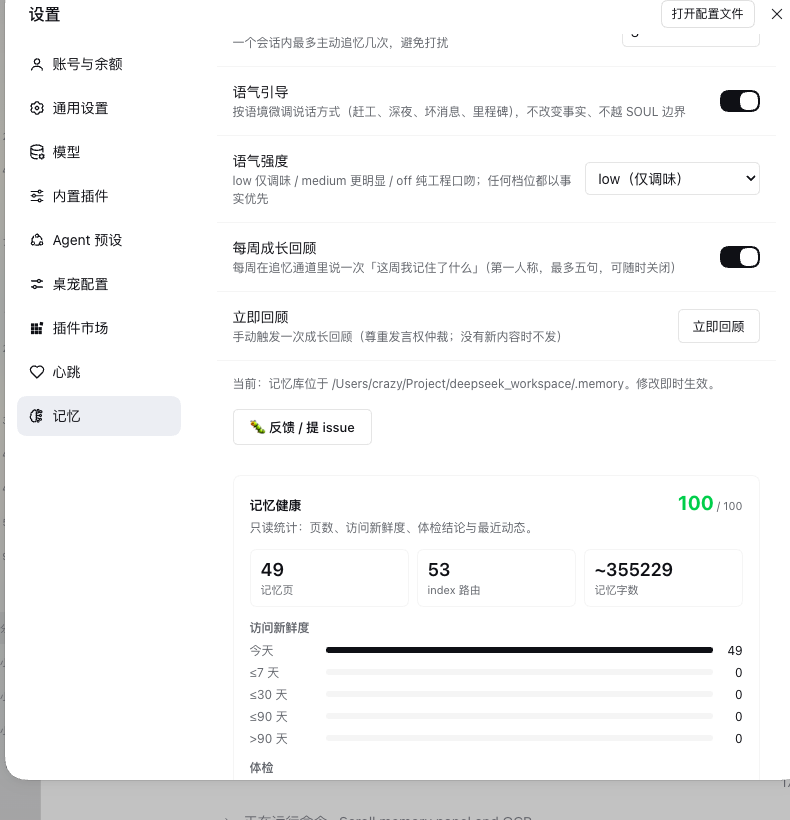
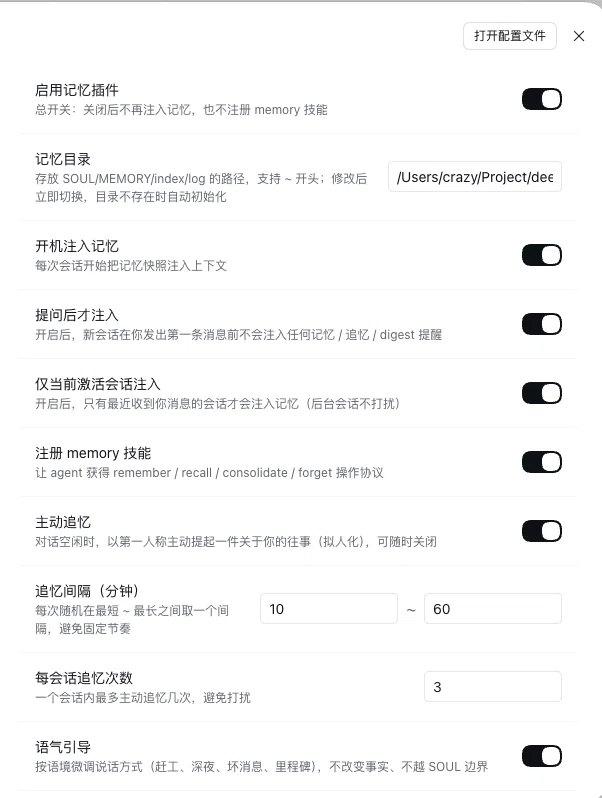
docs: 0.17.2 — real screenshots (soul card, 3D graph, settings panel) with feature captions

diff --git a/README.md b/README.md
@@ -39,6 +39,20 @@ dsh plugin --profile <profile> add dsh-plugin-memory
 - **Health tools** — dashboard, `checkup`, `lint`, `doctor`, automatic `last_access` stamping.
 - **Zero build, bilingual panel, hot-editable config.**
 
+## Screenshots
+
+**Basic soul (quick forging)** — set the agent's name, what it calls you and a baseline persona in one save; the next session uses it, no restart. Chat-forged souls are echoed back from `SOUL.md`.
+
+![Basic soul card](https://raw.githubusercontent.com/LittleBlackTong/dsh-plugin-memory/main/assets/soul-card.png)
+
+**Memory graph (3D)** — a live projection of the store: rotate / wheel-zoom / drag nodes to arrange, search-to-focus (the camera flies to the hit), hover or click to light up the neighbourhood. Select a node to **Reveal in Finder** or **Copy path**; double-click empty space to reset.
+
+![Memory graph](https://raw.githubusercontent.com/LittleBlackTong/dsh-plugin-memory/main/assets/memory-graph.png)
+
+**Settings panel** — sixteen settings apply immediately (per-session switch, boot gates, recall cadence, tone, disabled workspaces…). The health dashboard and the graph sit right below.
+
+![Memory settings panel](https://raw.githubusercontent.com/LittleBlackTong/dsh-plugin-memory/main/assets/settings-panel.png)
+
 ## Cross-platform
 
 **macOS, Windows and Linux are supported.** Path settings expand `~`, `~\`, `%USERPROFILE%` and `$HOME`; CRLF files are parsed as LF and **written back with their own newline style**; *Reveal in Finder* maps to `open -R` (macOS), `explorer /select,` (Windows, space-safe argv) and `xdg-open` (Linux); `disabledWorkspaces` matching is case-insensitive on Windows. Details: [docs/CONFIGURATION.md](docs/CONFIGURATION.md).
@@ -46,8 +60,6 @@ dsh plugin --profile <profile> add dsh-plugin-memory
 ## Configuration
 
 Sixteen hot keys edit live under **Settings → Memory**. The full table, boot-budget rules and composition overrides are in [docs/CONFIGURATION.md](docs/CONFIGURATION.md).
-
-![Memory settings panel](assets/settings-panel.png)
 
 ## CLI
 

diff --git a/README.zh.md b/README.zh.md
@@ -39,6 +39,20 @@ dsh plugin --profile <profile> add dsh-plugin-memory
 - **健康工具** —— 看板、`checkup`、`lint`、`doctor`、自动 `last_access`。
 - **零构建、面板双语、配置热改。**
 
+## 界面预览
+
+**人格基础（快速铸魂）** —— 一次保存我的名字 / 你怎么称呼我 / 基础人格，下次会话直接生效、不用重启；对话铸魂的老库也会从 `SOUL.md` 回显。
+
+![人格基础卡片](https://raw.githubusercontent.com/LittleBlackTong/dsh-plugin-memory/main/assets/soul-card.png)
+
+**记忆图谱（3D）** —— 记忆库的实时投影：旋转 / 滚轮缩放 / 拖节点整理，搜索即飞镜头定位，悬停或点击点亮邻居；选中节点可 **在 Finder 中显示** 或 **复制路径**，双击空白重置。
+
+![记忆图谱](https://raw.githubusercontent.com/LittleBlackTong/dsh-plugin-memory/main/assets/memory-graph.png)
+
+**设置面板** —— 十六项设置即时生效（会话开关、注入闸门、追忆节奏、语气、工作区默认…），健康看板与图谱就在下面。
+
+![记忆设置面板](https://raw.githubusercontent.com/LittleBlackTong/dsh-plugin-memory/main/assets/settings-panel.png)
+
 ## 跨平台（含 Windows）
 
 **macOS、Windows、Linux 都支持。** 路径配置里的 `~`、`~\`、`%USERPROFILE%`、`$HOME` 会自动展开；CRLF 文件按 LF 解析、**写回保留文件自身换行风格**（不会被强行 LF 化）；「在 Finder 中显示」在 macOS 是 `open -R`、Windows 是 `explorer /select,`（参数分开传，含空格路径安全）、Linux 是 `xdg-open`；`disabledWorkspaces` 在 Windows 上大小写不敏感。细节见 [docs/CONFIGURATION.md](docs/CONFIGURATION.md)。
@@ -46,8 +60,6 @@ dsh plugin --profile <profile> add dsh-plugin-memory
 ## 配置
 
 十六个热改项在 **设置 → 记忆** 里即时生效。完整配置表、boot 预算规则与组合层覆盖示例见 [docs/CONFIGURATION.md](docs/CONFIGURATION.md)。
-
-![记忆设置面板](assets/settings-panel.png)
 
 ## CLI
 

diff --git a/CHANGELOG.md b/CHANGELOG.md
@@ -2,6 +2,12 @@
 
 所有记录跟随 [Keep a Changelog](https://keepachangelog.com/zh-CN/1.1.0/) 风格；版本号与 `package.json` 保持一致。
 
+## [0.17.2] - 2026-11-05
+
+### Docs
+
+- **README 新增「界面预览 / Screenshots」**：三张真实截图——人格基础（快速铸魂）/ 3D 记忆图谱 / 设置面板——每张配一句功能说明；`settings-panel.png` 更新为新版面板截图，新增 `soul-card.png` 与 `memory-graph.png`。图片用 GitHub raw 绝对 URL，npm 页面同样可显示。
+
 ## [0.17.1] - 2026-11-05
 
 ### Changed（设置面板布局）
